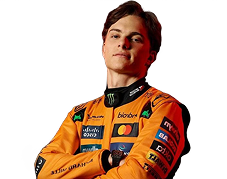
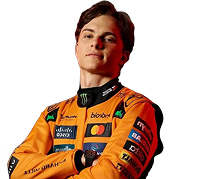
style: update TeamsPg css

diff --git a/src/pages/teamdriver/TeamsPg.jsx b/src/pages/teamdriver/TeamsPg.jsx
@@ -1,6 +1,7 @@
 import React, { useState, useEffect, useRef } from "react";
 import "./TeamsPg.css";
 import foxVideo from "/src/assets/video/forceforce.mp4";
+import ferrariLogo from "../../assets/img/teams/ferrari_black.png";
 
 const TeamsPg = () => {
   // 배너 슬라이드 상태 관리
@@ -10,6 +11,8 @@ const TeamsPg = () => {
   const [selectedTeam, setSelectedTeam] = useState("Ferrari");
 
   const [isShining, setIsShining] = useState(false);
+  const [showLogo, setShowLogo] = useState(true); // 로고 표시 상태
+  const [logoFadeOut, setLogoFadeOut] = useState(false); // 페이드아웃 애니메이션 상태
 
   // ✨ 피커 스크롤 ref 추가
   const yearScrollRef = useRef(null);
@@ -137,6 +140,24 @@ const TeamsPg = () => {
     return () => clearInterval(timer);
   }, [banners.length]);
 
+  // 로고 페이드아웃 효과
+  useEffect(() => {
+    // 2초 후 페이드아웃 시작
+    const fadeTimer = setTimeout(() => {
+      setLogoFadeOut(true);
+    }, 2000);
+
+    // 3초 후 로고 완전히 제거
+    const removeTimer = setTimeout(() => {
+      setShowLogo(false);
+    }, 3000);
+
+    return () => {
+      clearTimeout(fadeTimer);
+      clearTimeout(removeTimer);
+    };
+  }, []);
+
   // ✨ 스크롤 기반 자동 선택 기능
   useEffect(() => {
     const handleYearScroll = () => {
@@ -154,6 +175,23 @@ const TeamsPg = () => {
       if (years[clampedIndex] !== selectedYear) {
         setSelectedYear(years[clampedIndex]);
       }
+
+      // ✨ border 영역 안에 있는 모든 아이템에 in-border 클래스 추가
+      const items = container.querySelectorAll('.picker-item');
+      const containerRect = container.getBoundingClientRect();
+      const borderTop = containerRect.top + containerRect.height / 2 - 30; // 60px 높이의 절반
+      const borderBottom = containerRect.top + containerRect.height / 2 + 30;
+
+      items.forEach((item) => {
+        const itemRect = item.getBoundingClientRect();
+        const itemCenter = itemRect.top + itemRect.height / 2;
+        
+        if (itemCenter >= borderTop && itemCenter <= borderBottom) {
+          item.classList.add('in-border');
+        } else {
+          item.classList.remove('in-border');
+        }
+      });
     };
 
     const handleTeamScroll = () => {
@@ -170,6 +208,23 @@ const TeamsPg = () => {
       if (teams[clampedIndex] !== selectedTeam) {
         setSelectedTeam(teams[clampedIndex]);
       }
+
+      // ✨ border 영역 안에 있는 모든 아이템에 in-border 클래스 추가
+      const items = container.querySelectorAll('.picker-item');
+      const containerRect = container.getBoundingClientRect();
+      const borderTop = containerRect.top + containerRect.height / 2 - 30; // 60px 높이의 절반
+      const borderBottom = containerRect.top + containerRect.height / 2 + 30;
+
+      items.forEach((item) => {
+        const itemRect = item.getBoundingClientRect();
+        const itemCenter = itemRect.top + itemRect.height / 2;
+        
+        if (itemCenter >= borderTop && itemCenter <= borderBottom) {
+          item.classList.add('in-border');
+        } else {
+          item.classList.remove('in-border');
+        }
+      });
     };
 
     const yearScroll = yearScrollRef.current;
@@ -201,6 +256,16 @@ const TeamsPg = () => {
         const tIdx = teams.indexOf(selectedTeam);
         yearScrollRef.current?.scrollTo({ top: yIdx * ITEM_HEIGHT });
         teamScrollRef.current?.scrollTo({ top: tIdx * ITEM_HEIGHT });
+        
+        // ✨ 초기 border 하이라이트 적용
+        setTimeout(() => {
+          if (yearScrollRef.current) {
+            yearScrollRef.current.dispatchEvent(new Event('scroll'));
+          }
+          if (teamScrollRef.current) {
+            teamScrollRef.current.dispatchEvent(new Event('scroll'));
+          }
+        }, 50);
       }, 10);
     }
     // eslint-disable-next-line react-hooks/exhaustive-deps
@@ -236,6 +301,14 @@ const TeamsPg = () => {
           <source src={foxVideo} type="video/mp4" />
         </video>
         <div className="video-overlay"></div>
+        
+        {/* Ferrari 로고 오버레이 */}
+        {showLogo && (
+          <div className={`ferrari-logo-overlay ${logoFadeOut ? 'fade-out' : ''}`}>
+            <img src={ferrariLogo} alt="Ferrari Logo" />
+          </div>
+        )}
+        
         <div className="teams-footer">
           <div className="stat-group">
             <div className="stat-item">

diff --git a/src/pages/teamdriver/TeamsPg.css b/src/pages/teamdriver/TeamsPg.css
@@ -58,6 +58,49 @@
   z-index: 1;
 }
 
+/* Ferrari 로고 오버레이 */
+.ferrari-logo-overlay {
+  position: absolute;
+  top: 0;
+  left: 0;
+  right: 0;
+  bottom: 0;
+  background-color: #000;
+  display: flex;
+  align-items: center;
+  justify-content: center;
+  z-index: 10;
+  animation: fadeIn 0.5s ease-in;
+}
+
+.ferrari-logo-overlay img {
+  width: 150px;
+  height: auto;
+  opacity: 1;
+}
+
+.ferrari-logo-overlay.fade-out {
+  animation: fadeOut 1s ease-out forwards;
+}
+
+@keyframes fadeIn {
+  from {
+    opacity: 0;
+  }
+  to {
+    opacity: 1;
+  }
+}
+
+@keyframes fadeOut {
+  from {
+    opacity: 1;
+  }
+  to {
+    opacity: 0;
+  }
+}
+
 /* 푸터: 영상 내부 하단에 고정 */
 .teams-footer {
   position: absolute;
@@ -254,23 +297,31 @@ body:has(.modal-overlay) .top-btn-container {
   height: 60px;
   line-height: 60px;
   font-size: 18px;
-  color: #ffffff;
+  color: #eaeaea;
   opacity: 0.2;
   /* 기본은 어둡게 */
-  transition: opacity 0.3s transform 0.3s;
+  transition: all 0.2s cubic-bezier(0.4, 0, 0.2, 1);
+  /* 색상/불투명도 변화를 부드럽게 */
   scroll-snap-align: center;
-  scroll-snap-stop: always;
+  /* 스크롤 시 중앙에 딱 붙게 함 */
   width: 100%;
   text-align: center;
   cursor: pointer;
 }
 
-/* 가이드 라인 안에 있는 활성화 상태 */
+/* ✨ border 영역 안에 있는 아이템 */
+.picker-item.in-border {
+  color: #eaeaea;
+  opacity: 0.6;
+}
+
+/* 가이드 라인 안에 있는 활성화 상태 (.active): 불투명하고 굵은 글씨 */
 .picker-item.active {
   opacity: 1;
+  /* 선명하게 바뀜 */
+  font-weight: 700;
+  /* 굵게 바뀜 */
   color: #eaeaea;
-  font-weight: 600;
-  transform: scale(1.05);
 }
 
 /* 선택 완료 버튼 */

diff --git a/src/pages/teamdriver/RacesPg.css b/src/pages/teamdriver/RacesPg.css
@@ -235,10 +235,6 @@ body:has(.modal-overlay) .top-btn-container {
   transition: transform 0.2s ease;
 }
 
-.team-card:hover {
-  transform: scale(1.02);
-}
-
 /* Position별 그라데이션 테두리 */
 .team-card::before {
   content: "";

diff --git a/src/pages/teamdriver/DriverPg.css b/src/pages/teamdriver/DriverPg.css
@@ -284,6 +284,7 @@ button:focus {
 
 .driverlist ul li.mclaren_1 {
   background-image: url("../../assets/img/drivers/mclaren_bg_1.png");
+  overflow: hidden;
 }
 
 .driverlist ul li.mclaren_2 {
